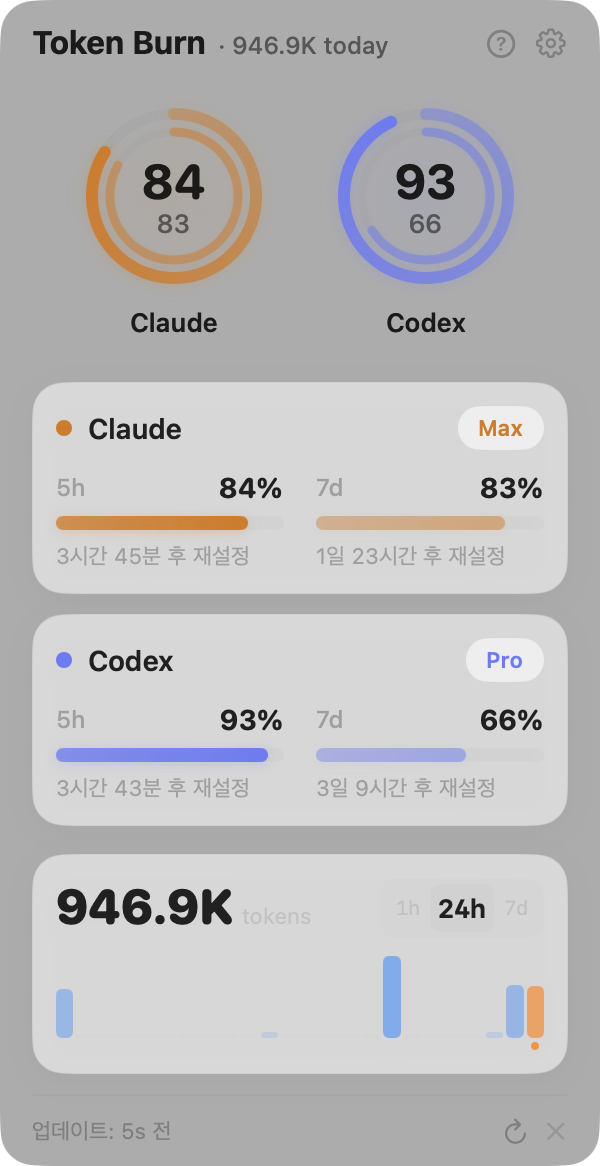
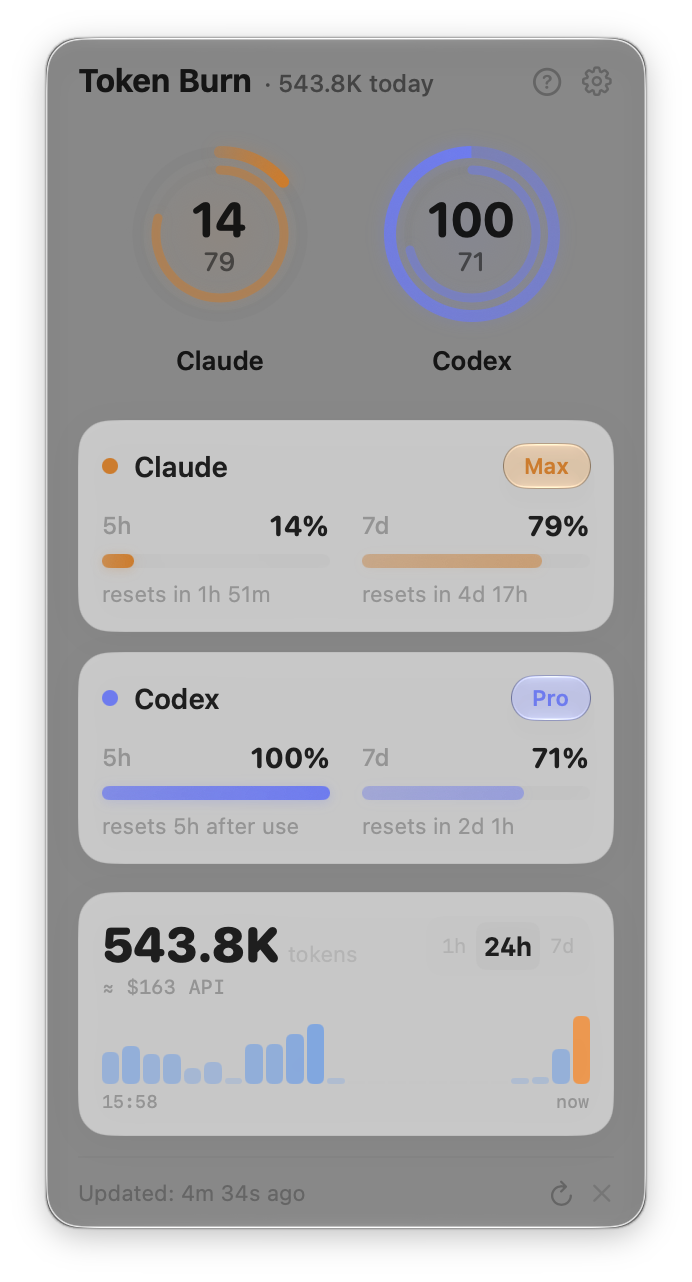
docs: fresh English screenshots + live menu-bar GIF
Panel/load/settings shots retaken from the current build (heat strip,
System Load tab, AI diagnosis visible); menu bar is now an animated GIF
showing the heartbeat pulse. Drop stale Feb-era images.

diff --git a/README.md b/README.md
@@ -25,7 +25,7 @@ Agent sessions quietly eat through your 5-hour and weekly quotas while you work 
 
 ## In the Menu Bar
 
-<img src="docs/screenshot-menubar.png" width="200" alt="Menu Bar">
+<img src="docs/menubar-live.gif" width="240" alt="Menu bar cells pulsing while agents burn tokens">
 
 Each service cell encodes two things at once:
 
@@ -41,6 +41,10 @@ While an agent is actively calling APIs, the bars pulse with a heartbeat animati
 - **System Load tab** — CPU × GPU gauge with RAM as color, top processes, and a glanceable heat strip on the main panel
 - **Heat advisor** *(optional)* — when your Mac runs hot, sends the top CPU process names to Claude using **your own** Anthropic API key and tells you what's cooking
 - **Staleness flags** — warns when a service stopped reporting fresh data
+
+<div align="center">
+<img src="docs/screenshot-load.png" width="280" alt="System Load tab with AI heat diagnosis">
+</div>
 
 ## Install
 
